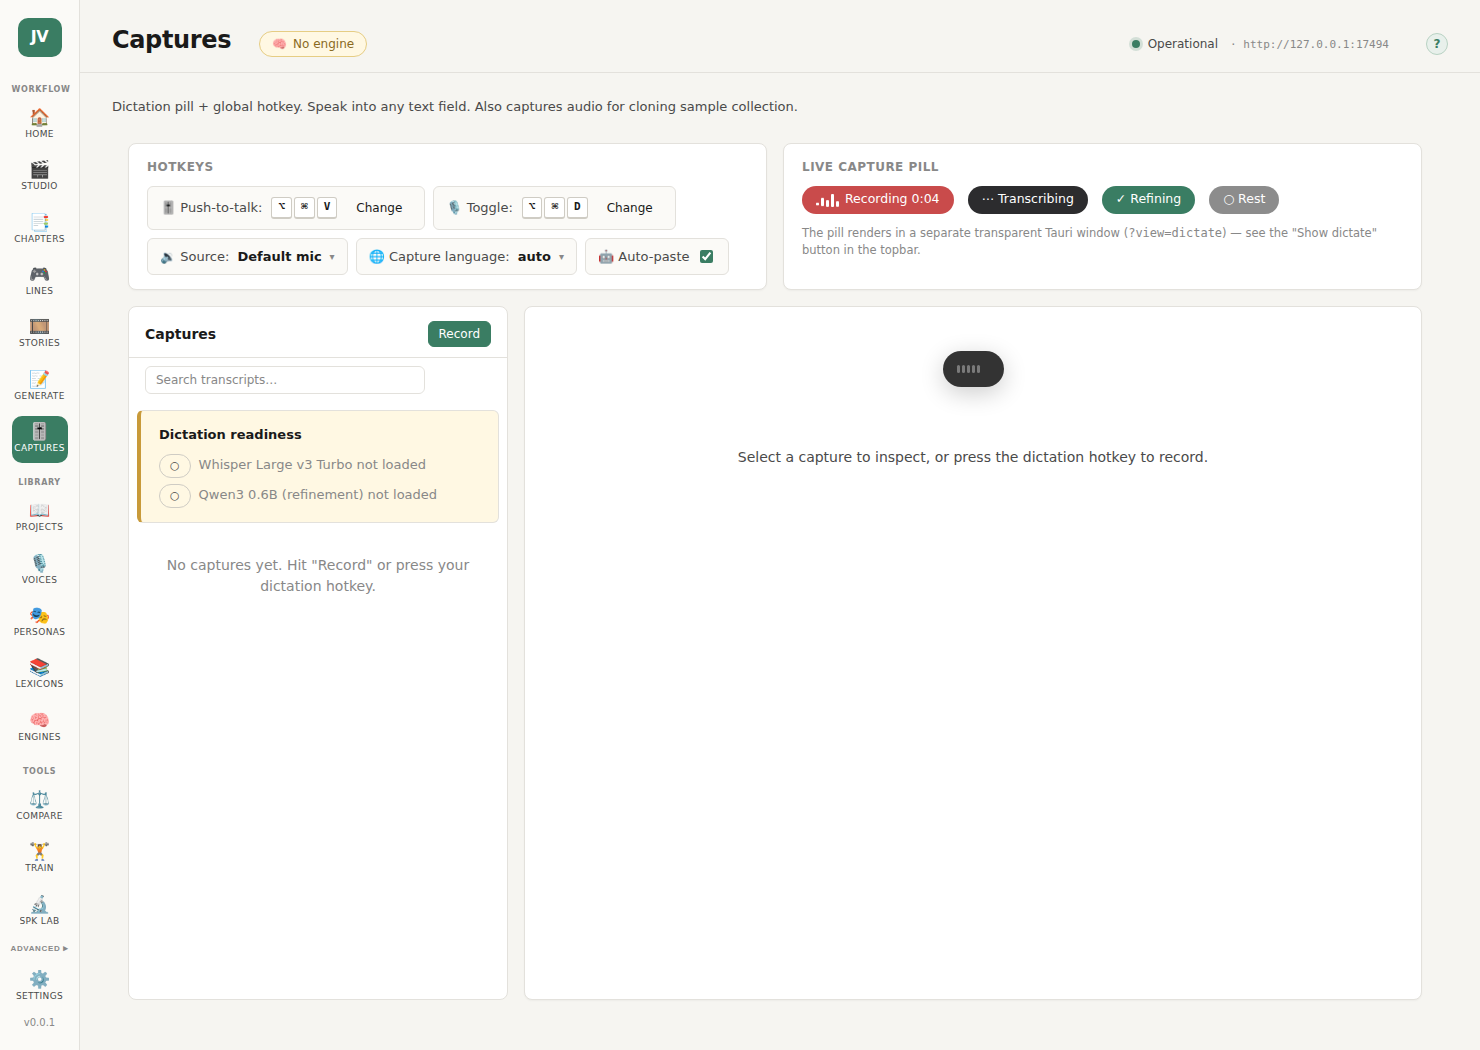
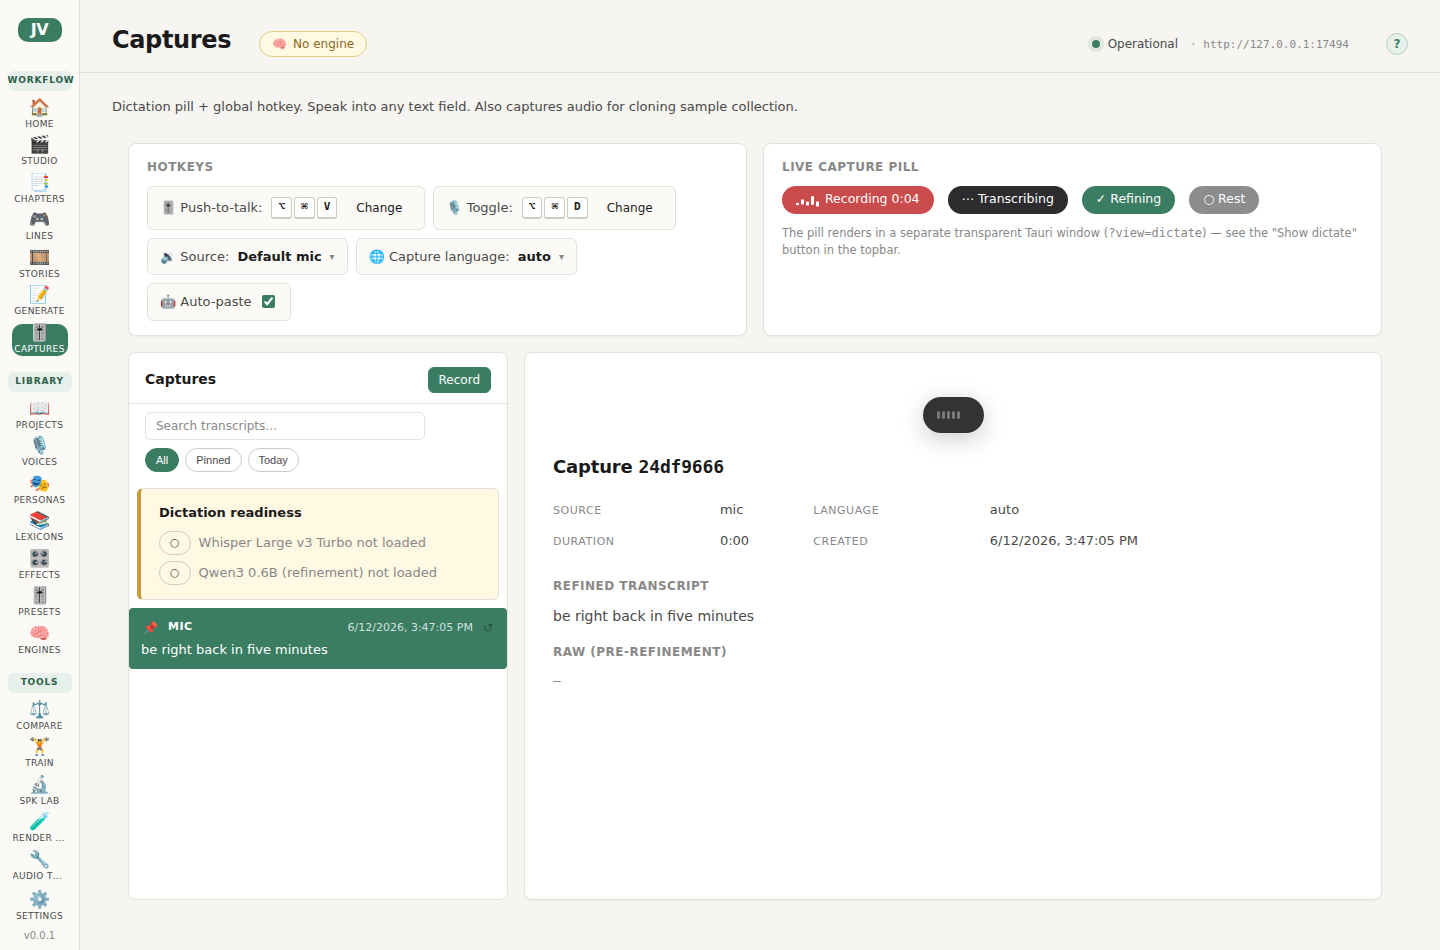
feat(parity): Captures + Webhooks judged — pin/filters/speak-again, MCP card, cold deep-link fix
The two judgeable ⬜ parity rows, element-diffed against the journeys
mock and closed:

Captures (mock: pinned stream phrases, filters, speak-again):
- captures.pinned column + migration + PATCH /v1/captures/{id};
  CaptureRow carries pinned.
- All / Pinned / Today filter chips; pinned rows sort first; 📌 pin
  toggle and ↺ speak-again (Generate prefill via jv.generate.prefill)
  per row. Remaining gap recorded: promote-recording→clone-sample.

Webhooks (mock: one 'Automation' surface pairing MCP + webhooks):
- MCP-server card above the table — real exposed tool list
  (speak / list_voices / list_personas / transcribe) + Settings link;
  lede gains the game-VO-CI use case.

Plus a real deep-link bug the capture run surfaced: #cache/#channels/
#webhooks only redirected on hashchange — a COLD load of the URL fell
through to Home. resolveInitialTab now routes them.

docs/gui-parity/README.md rows flipped ⬜ → 🟡 with the judged diffs;
app-side PNGs refreshed.

https://claude.ai/code/session_01RnHLzYNeJn2GgAMKW1BPmR

diff --git a/src/renderer/src/views/CapturesView.vue b/src/renderer/src/views/CapturesView.vue
@@ -24,14 +24,50 @@ const pillState = ref("rest");
 const elapsedMs = ref(0);
 const isRecording = ref(false);
 
+// All / Pinned / Today chips (parity: journeys mock) + search.
+const FILTERS = ["all", "pinned", "today"];
+const filter = ref("all");
 const filtered = computed(() => {
-  if (!search.value) return captures.value;
-  const q = search.value.toLowerCase();
-  return captures.value.filter(
-    (c) => (c.transcript || "").toLowerCase().includes(q) ||
-           (c.audio_path || "").toLowerCase().includes(q),
-  );
+  let list = captures.value;
+  if (filter.value === "pinned") list = list.filter((c) => c.pinned);
+  if (filter.value === "today") {
+    const today = new Date().toDateString();
+    list = list.filter((c) => new Date(c.created_at).toDateString() === today);
+  }
+  if (search.value) {
+    const q = search.value.toLowerCase();
+    list = list.filter(
+      (c) => (c.transcript || "").toLowerCase().includes(q) ||
+             (c.audio_path || "").toLowerCase().includes(q),
+    );
+  }
+  // Pinned first, newest within each group.
+  return [...list].sort((a, b) => (b.pinned - a.pinned) || (new Date(b.created_at) - new Date(a.created_at)));
 });
+
+async function togglePin(c) {
+  try {
+    const updated = await api.request(`/v1/captures/${c.id}`, {
+      method: "PATCH",
+      headers: { "Content-Type": "application/json" },
+      body: JSON.stringify({ pinned: !c.pinned }),
+    });
+    const idx = captures.value.findIndex((x) => x.id === c.id);
+    if (idx >= 0) captures.value[idx] = updated;
+  } catch (e) {
+    pushToast({ kind: "error", title: "Pin failed", description: String(e?.message ?? e) });
+  }
+}
+
+// "Speak again" — re-say the transcript through TTS: Generate, prefilled.
+function speakAgain(c) {
+  if (!c?.transcript) {
+    pushToast({ kind: "info", message: "No transcript on this capture." });
+    return;
+  }
+  try { window.sessionStorage?.setItem("jv.generate.prefill", JSON.stringify({ text: c.transcript })); } catch { /* ignore */ }
+  window.location.hash = "#generate";
+}
 
 const selectedCapture = computed(() =>
   captures.value.find((c) => c.id === selectedId.value),
@@ -158,6 +194,16 @@ onMounted(() => {
       </div>
       <div class="captures__search">
         <JvInput v-model="search" placeholder="Search transcripts…" size="sm" width="name" />
+        <div class="captures__filters">
+          <button
+            v-for="f in FILTERS"
+            :key="f"
+            type="button"
+            class="jv-pill"
+            :class="filter === f ? 'jv-pill--solid' : 'jv-pill--ghost'"
+            @click="filter = f"
+          >{{ f.charAt(0).toUpperCase() + f.slice(1) }}</button>
+        </div>
       </div>
 
       <!-- Readiness banner -->
@@ -187,8 +233,21 @@ onMounted(() => {
         @click="selectedId = c.id"
       >
         <div class="captures__item-row">
+          <button
+            type="button"
+            class="captures__pin"
+            :class="{ 'captures__pin--on': c.pinned }"
+            :title="c.pinned ? 'Unpin' : 'Pin — repeated phrases sort first'"
+            @click.stop="togglePin(c)"
+          >📌</button>
           <span class="captures__source">{{ c.source }}</span>
           <span class="jv-pane-list__meta" style="margin-left:auto;">{{ new Date(c.created_at).toLocaleString() }}</span>
+          <button
+            type="button"
+            class="captures__pin"
+            title="Speak again — opens Generate with this transcript prefilled"
+            @click.stop="speakAgain(c)"
+          >↺</button>
         </div>
         <div class="jv-ellipsis captures__transcript">{{ c.transcript || "(no transcript)" }}</div>
       </div>
@@ -344,7 +403,19 @@ onMounted(() => {
   padding: 14px 16px 10px;
   border-bottom: 1px solid var(--line);
 }
-.captures__search { padding: 8px 16px; }
+.captures__search { padding: 8px 16px; display: flex; flex-direction: column; gap: 8px; }
+.captures__filters { display: flex; gap: 6px; }
+.captures__pin {
+  border: 0;
+  background: transparent;
+  cursor: pointer;
+  font-size: 12px;
+  padding: 0 2px;
+  opacity: 0.35;
+  filter: grayscale(1);
+}
+.captures__pin:hover { opacity: 0.8; }
+.captures__pin--on { opacity: 1; filter: none; }
 
 .captures__source { font-weight: 600; text-transform: uppercase; letter-spacing: 0.05em; font-size: 11px; }
 .captures__item-row { display: flex; align-items: center; gap: 8px; }

diff --git a/src/renderer/src/views/WebhooksView.vue b/src/renderer/src/views/WebhooksView.vue
@@ -107,11 +107,33 @@ onMounted(refresh);
 
 <template>
   <div class="webhooks-view">
+    <!-- MCP card (parity: the mock pairs MCP + webhooks as one
+         "Automation" surface — same server speaks for agents and
+         pipelines, no UI in the loop). -->
+    <div class="jv-card webhooks-view__mcp">
+      <div class="webhooks-view__mcp-h">
+        <strong>MCP server</strong>
+        <span class="jv-pill jv-pill--green">enabled</span>
+        <span class="jv-spacer" />
+        <a href="#settings" class="jv-muted" style="font-size:12px">configure → Settings · MCP</a>
+      </div>
+      <p class="jv-muted" style="font-size:12.5px; margin: 6px 0 10px">
+        Any MCP-capable agent (Claude Code, IDEs) can drive JustVoice — dictate commit
+        messages, voice notifications, batch-generate while you're away.
+      </p>
+      <pre class="webhooks-view__tools jv-mono">tools exposed
+justvoice.speak           {text, voice|persona, channel}
+justvoice.list_voices     → library
+justvoice.list_personas   → characters
+justvoice.transcribe      {audio} → text</pre>
+    </div>
+
     <header class="jv-section">
       <h2 class="jv-section__title">Webhooks</h2>
       <p class="jv-muted" style="margin-top: 4px; margin-bottom: 0;">
-        Server-pushed HMAC-SHA256-signed notifications for async integration.
-        At-least-once delivery with exponential backoff (1s → 5s → 30s → 5min).
+        Server-pushed HMAC-SHA256-signed notifications for async integration —
+        wire renders into a build pipeline (game VO CI) or notify when a chapter
+        masters. At-least-once delivery with exponential backoff (1s → 5s → 30s → 5min).
       </p>
     </header>
 
@@ -193,6 +215,18 @@ onMounted(refresh);
 
 <style scoped>
 .webhooks-view { padding: 32px; max-width: var(--shell-page); }
+.webhooks-view__mcp { padding: 14px 16px; margin-bottom: 16px; }
+.webhooks-view__mcp-h { display: flex; align-items: center; gap: 8px; }
+.webhooks-view__tools {
+  background: var(--ink);
+  color: #d7e6dc;
+  border-radius: 8px;
+  padding: 12px 14px;
+  font-size: 12px;
+  line-height: 1.7;
+  margin: 0;
+  overflow-x: auto;
+}
 .editor-card { margin-top: 16px; }
 .events-grid { display: grid; grid-template-columns: repeat(2, 1fr); gap: 6px; }
 .secret-code { background: rgba(0,0,0,0.05); padding: 4px 8px; border-radius: 4px; }

diff --git a/src/renderer/src/App.vue b/src/renderer/src/App.vue
@@ -291,6 +291,15 @@ function resolveInitialTab() {
     initialTabResolved = true;
     return;
   }
+  // Legacy Settings sub-tab deep links (#cache/#channels/#webhooks) —
+  // only the hashchange listener handled these, so a COLD load of the
+  // URL fell through to Home (user-hit: parity capture landed wrong).
+  if (["cache", "channels", "webhooks"].includes(hashId)) {
+    try { window.sessionStorage?.setItem("jv.settings.sub", hashId); } catch { /* ignore */ }
+    view.value = "settings";
+    initialTabResolved = true;
+    return;
+  }
   // First run = the real question, "What are you making?" (user decision
   // 2026-06-12: no welcome quiz, no setup wizard — the kind picker opens,
   // creating the first project sets the workspace focus, and engines

diff --git a/server/justvoice/database/migrations.py b/server/justvoice/database/migrations.py
@@ -55,6 +55,7 @@ def run_migrations(engine) -> None:
     _migrate_render_presets_voice_nullable(engine, inspector, tables)
     _migrate_blocks_extraction_telemetry(engine, inspector, tables)
     _migrate_mcp_bindings_persona(engine, inspector, tables)
+    _migrate_captures_pinned(engine, inspector, tables)
 
 
 # ── helpers ───────────────────────────────────────────────────────────────
@@ -273,6 +274,16 @@ def _migrate_drop_voice_profile_tables(engine, inspector, tables: set[str]) -> N
                 conn.execute(text(f"DROP TABLE IF EXISTS {table}"))
                 logger.info("Dropped %s table (Slice 4 of Profile-kill)", table)
         conn.commit()
+
+
+def _migrate_captures_pinned(engine, inspector, tables: set[str]) -> None:
+    """Add `pinned` to captures (parity with the journeys mock — pin the
+    stream phrases you repeat; pinned rows sort first)."""
+    if "captures" not in tables:
+        return
+    columns = _get_columns(inspector, "captures")
+    if "pinned" not in columns:
+        _add_column(engine, "captures", "pinned BOOLEAN NOT NULL DEFAULT 0", "pinned")
 
 
 def _migrate_mcp_bindings_persona(engine, inspector, tables: set[str]) -> None:

diff --git a/server/justvoice/api/captures_api.py b/server/justvoice/api/captures_api.py
@@ -86,6 +86,7 @@ class CaptureRow(BaseModel):
     raw_transcript: Optional[str]
     refinement_flags: dict
     audio_url: str
+    pinned: bool = False
     created_at: datetime
 
 
@@ -104,8 +105,28 @@ def _row(c: Capture) -> CaptureRow:
         raw_transcript=c.raw_transcript,
         refinement_flags=json.loads(c.refinement_flags_json) if c.refinement_flags_json else {},
         audio_url=f"/v1/captures/{c.id}/audio",
+        pinned=bool(c.pinned),
         created_at=c.created_at,
     )
+
+
+class UpdateCaptureRequest(BaseModel):
+    pinned: Optional[bool] = None
+
+
+@router.patch("/v1/captures/{capture_id}", response_model=CaptureRow)
+async def update_capture(
+    capture_id: str, body: UpdateCaptureRequest, db: Session = Depends(get_db)
+) -> CaptureRow:
+    """Pin/unpin (parity: the journeys mock pins repeated phrases)."""
+    c = db.query(Capture).filter(Capture.id == capture_id).first()
+    if not c:
+        raise not_found(f"capture {capture_id}")
+    if body.pinned is not None:
+        c.pinned = body.pinned
+    db.commit()
+    db.refresh(c)
+    return _row(c)
 
 
 @router.post("/v1/transcribe")

diff --git a/server/justvoice/database/models.py b/server/justvoice/database/models.py
@@ -461,6 +461,9 @@ class Capture(Base):
     raw_transcript = Column(Text, nullable=True)
     # JSON: {smart_cleanup, self_correction, preserve_technical}
     refinement_flags_json = Column(Text, nullable=True)
+    # Pinned captures sort first + survive the Pinned filter (parity:
+    # the journeys mock pins repeated stream phrases).
+    pinned = Column(Boolean, default=False, nullable=False)
     created_at = Column(DateTime, default=_utcnow)
 
 

diff --git a/docs/gui-parity/README.md b/docs/gui-parity/README.md
@@ -30,8 +30,8 @@ element-by-element — next pass.
 | Generate | generate-* | 🟡 | capability-driven knobs exceed mock; mock's inline tag-palette row is a slash-menu instead |
 | QuickSetup (first-run) | (quicksetup-v2.png, session) | ✅ | engine checkboxes, helpers, what-happens-next, re-runnable |
 | Fix-it → Lexicons | lexicons-* | ✅ | flag on block → prefilled grapheme verified live |
-| Captures | captures-* | ⬜ | loads clean; element diff not done |
-| Webhooks | webhooks-* | ⬜ | loads clean; element diff not done |
+| Captures | captures-* | 🟡 | judged 2026-06-12: All/Pinned/Today chips + 📌 pin (new `pinned` column + PATCH) + ↺ speak-again (Generate prefill) shipped to match mock. Remaining gaps: promote-recording→clone-sample flow (needs the clone pipeline on a capture), mock's flat table vs app's master/detail (kept — detail pane holds transcript/refine tools) |
+| Webhooks | webhooks-* | 🟡 | judged 2026-06-12: MCP-server card added above the table (mock pairs MCP+webhooks as one Automation surface) with real exposed tools + Settings link; lede mentions the CI use case. Remaining gap: mock's per-event ✓ 200 status pill vs app's Last-delivery column (column kept — same info) |
 | Episodes (podcast home base) | episodes-* | ⬜ | ChapterView w/ podcast vocabulary; segment-specific affordances (inline tag pills, markers) not diffed |
 | Timeline (podcast) | timeline-* | ⬜ | StoriesView; mock's grown-up timeline (music bed, stinger drag) not diffed |
 | First-run clone/audition steps | — | ⬜ | recording UI is desktop/mic-dependent; screens not diffed |
